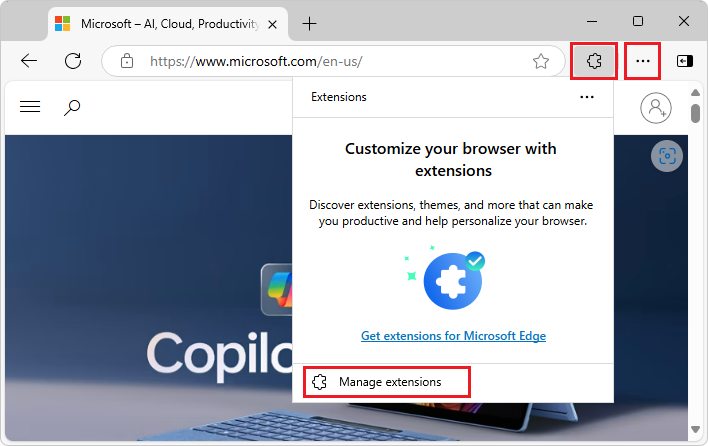
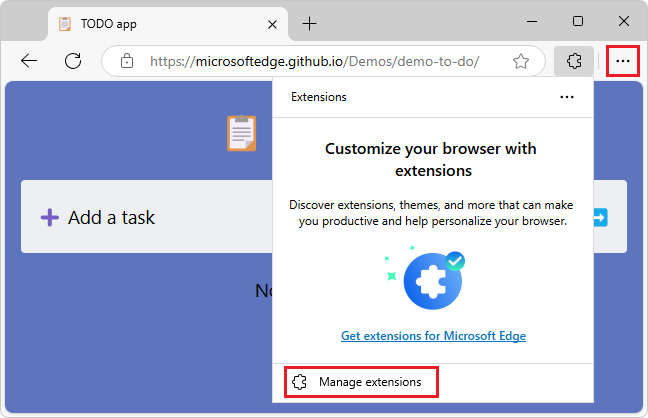
Update Sideload article

diff --git a/microsoft-edge/extensions-chromium/getting-started/extension-sideloading.md b/microsoft-edge/extensions-chromium/getting-started/extension-sideloading.md
@@ -6,7 +6,7 @@ ms.author: msedgedevrel
 ms.topic: conceptual
 ms.service: microsoft-edge
 ms.subservice: extensions
-ms.date: 10/04/2024
+ms.date: 01/15/2025
 ---
 # Sideload an extension to install and test it locally
 
@@ -14,59 +14,83 @@ To test an extension quickly and safely, sideload the extension in your own copy
 
 
 <!-- ====================================================================== -->
+## Prerequisite: Have an extension to install
+
+This article assumes that your local drive contains an extension that you want to load, such as a sample from the [MicrosoftEdge-Extensions](https://github.com/microsoft/MicrosoftEdge-Extensions) repo.
+
+If you want to obtain the samples, see [Clone the MicrosoftEdge-Extensions repo](./picture-viewer-popup-webpage.md#clone-the-microsoftedge-extensions-repo) in _Sample: Picture viewer pop-up webpage_.
+
+
+<!-- ====================================================================== -->
 ## Locally installing and running an extension
 
 To sideload an extension into Microsoft Edge, so that it's locally installed in your browser for testing:
 
-1. In Microsoft Edge, click the **Extensions** (![Extensions icon](./extension-sideloading-images/extensions-icon.png)) button, next to the Address bar, if this icon is displayed.  Or, select **Settings and more** (...) > **Extensions**.  The **Extensions** pop-up opens:
+1. Go to a webpage, such as [TODO app](https://microsoftedge.github.io/Demos/demo-to-do/), in a new window or tab.  For some samples, this step is optional and is just to match the screenshots below; some samples don't require a webpage to be open.
+
+1. In Microsoft Edge to the right of the Address bar, if this icon is displayed, click the **Extensions** (![Extensions icon](./extension-sideloading-images/extensions-icon.png)) button.  Or, select **Settings and more** (![The "Settings and more" icon](./extension-sideloading-images/settings-and-more-icon.png)) > **Extensions**.
+
+   The **Extensions** pop-up opens:
 
    ![The Extensions popup when no extensions are installed](./extension-sideloading-images/extensions-popup-no-extensions.png)
 
 1. Click **Manage extensions**.  The **Extensions** management page opens in a new tab:
 
-   ![Turning on Developer Mode](./extension-sideloading-images/part1-developermode-toggle.png)
+   ![Turning on Developer Mode](./extension-sideloading-images/developermode-toggle.png)
 
 1. Turn on the **Developer mode** toggle.
 
 1. When installing your extension for the first time, click the **Load unpacked** (![The "Load unpacked" icon](./extension-sideloading-images/load-unpacked-icon.png)) button.  The **Select the extension directory** dialog opens.
 
-1. Select the directory that contains the extension's source files, such as `manifest.json`, and then click the **Select Folder** button.
+1. Select the directory that contains the extension's source files, such as `manifest.json`.
 
-   Example path for [Sample: Picture viewer pop-up webpage](./picture-viewer-popup-webpage.md):
+   Example path for the **Picture viewer pop-up webpage** sample:
 
-   `C:\Users\myUsername\GitHub\MicrosoftEdge-Extensions\Extension samples\extension-getting-started-part1\part1\`
+   `C:\Users\localAccount\GitHub\MicrosoftEdge-Extensions\Extension samples\picture-viewer-popup-webpage`
 
-   Example path for [Sample: Picture inserter using content script](./picture-inserter-content-script.md):
+   Example path for the **Picture inserter using content script** sample:
 
-   `C:\Users\myUsername\GitHub\MicrosoftEdge-Extensions\Extension samples\extension-getting-started-part2\extension-getting-started-part2\`
+   `C:\Users\localAccount\GitHub\MicrosoftEdge-Extensions\Extension samples\picture-inserter-content-script`
+
+1. Click the **Select Folder** button.
+
+   The **Select the extension directory** dialog closes.
 
    The extension is installed in your browser, similar to extensions that are installed from the store:
 
-   ![Installed extensions page, showing a sideloaded extension](./extension-sideloading-images/part1-installed-extension.png)
+   ![Installed extensions page, showing a sideloaded extension](./extension-sideloading-images/installed-extension.png)
 
-1. To run the extension, first open a webpage, if the extension requires that a webpage is open.  For example, go to a webpage, such as [Microsoft.com](https://www.microsoft.com), in a new window or tab.
+1. If the extension requires that a webpage is open, make sure a webpage is open, such as [TODO app](https://microsoftedge.github.io/Demos/demo-to-do/).
 
-1. In the upper right of Microsoft Edge, click the **Extensions** (![Extensions icon](./extension-sideloading-images/extensions-icon.png)) button.  Or, select **Settings and more** (...) > **Extensions**.
+1. In Microsoft Edge to the right of the Address bar, click the **Extensions** (![Extensions icon](./extension-sideloading-images/extensions-icon.png)) button.  Or, select **Settings and more** (![The "Settings and more" icon](./extension-sideloading-images/settings-and-more-icon.png)) > **Extensions**.
 
    The **Extensions** pop-up opens:
 
    ![The Extensions pop-up](./extension-sideloading-images/extensions-popup.png)
 
-1. Click the extension's icon or name.  The extension opens, and the extension's icon is added next to the Address bar and Extensions (![Extensions icon](./extension-sideloading-images/extensions-icon.png)) icon:
+1. Click the extension's icon or name.  The extension opens, and the extension's icon is added next to the Address bar and **Extensions** (![Extensions icon](./extension-sideloading-images/extensions-icon.png)) button:
 
    ![An extension running](./extension-sideloading-images/extension-running.png)
 
 
 <!-- ====================================================================== -->
-## Locally updating an extension
+## Locally updating an extension (Reload)
 
 To update an extension that's been installed locally (sideloaded) in your browser:
 
-1. Make any required changes to the extension.
+1. Make any required changes to the extension, and save changes.
 
-1. Go to `edge://extensions`.
+1. In Microsoft Edge, if the **Extensions** management tab is open, click it.
 
-1. Click the **Reload** button for the sideloaded extension.  The updated extension is reloaded.
+   Or, to the right of the Address bar, if this icon is displayed, click the **Extensions** (![Extensions icon](./extension-sideloading-images/extensions-icon.png)) button.  The **Extensions** pop-up opens.  Click **Manage extensions**.
+
+   Or, select **Settings and more** (![The "Settings and more" icon](./extension-sideloading-images/settings-and-more-icon.png)) > **Extensions** > **Manage extensions**.
+
+   The **Extensions** management tab is displayed.
+
+1. Click the **Reload** link in the extension's card.
+
+1. Depending on the sample, you might need to refresh the webpage where the sample was run.
 
 
 <!-- ====================================================================== -->
@@ -74,9 +98,37 @@ To update an extension that's been installed locally (sideloaded) in your browse
 
 To remove an extension that's been installed locally (sideloaded) in your browser:
 
-1. Go to `edge://extensions`.
+1. In Microsoft Edge, if the **Extensions** management tab is open, click it.
 
-1. On the extension, click **Remove**.
+   Or, to the right of the Address bar, if this icon is displayed, click the **Extensions** (![Extensions icon](./extension-sideloading-images/extensions-icon.png)) button.  The **Extensions** pop-up opens.  Click **Manage extensions**.
+
+   Or, select **Settings and more** (![The "Settings and more" icon](./extension-sideloading-images/settings-and-more-icon.png)) > **Extensions** > **Manage extensions**.
+
+   The **Extensions** management tab is displayed.
+
+1. Click the **Remove** link in the extension's card.
+
+
+<!-- ====================================================================== -->
+## Error reporting in the Extensions management page
+
+If running an extension causes an error, in some cases, an **Error** link is added in the extension's card in the **Extensions** management page between the **Remove** and **Reload** links.
+
+1. In Microsoft Edge, if the **Extensions** management tab is open, click it.
+
+   Or, to the right of the Address bar, if this icon is displayed, click the **Extensions** (![Extensions icon](./extension-sideloading-images/extensions-icon.png)) button.  The **Extensions** pop-up opens.  Click **Manage extensions**.
+
+   Or, select **Settings and more** (![The "Settings and more" icon](./extension-sideloading-images/settings-and-more-icon.png)) > **Extensions** > **Manage extensions**.
+
+   The **Extensions** management tab is displayed.
+
+1. Click the **Error** link in the extension's card.
+
+1. Fix the error in the extension's code.
+
+1. In the **Extensions** management page, click the **Reload** link.
+
+1. To make the **Error** link in the extension's card go away, in the **Extensions** management page, click the **Clear errors** button.
 
 
 <!-- ====================================================================== -->

diff --git a/microsoft-edge/extensions-chromium/getting-started/picture-viewer-popup-webpage.md b/microsoft-edge/extensions-chromium/getting-started/picture-viewer-popup-webpage.md
@@ -80,7 +80,7 @@ See also:
 
 Instead of installing the sample from the Store, you'll install the sample locally, so that you can possibly modify it and quickly test the changes.  Installing locally is sometimes called _sideloading_ an extension.
 
-1. In Microsoft Edge, click the **Extensions** (![Extensions icon](./picture-viewer-popup-webpage-images/extensions-icon.png)) button, next to the Address bar, if this icon is displayed.  Or, select **Settings and more** (...) > **Extensions**.  The **Extensions** pop-up opens:
+1. In Microsoft Edge, click the **Extensions** (![Extensions icon](./picture-viewer-popup-webpage-images/extensions-icon.png)) button, next to the Address bar, if this icon is displayed.  Or, select **Settings and more** (![The "Settings and more" icon](./picture-viewer-popup-webpage-images/settings-and-more-icon.png)) > **Extensions**.  The **Extensions** pop-up opens:
 
    ![The Extensions pop-up when no extensions are installed](./picture-viewer-popup-webpage-images/extensions-popup-no-extensions.png)
 
@@ -92,11 +92,15 @@ Instead of installing the sample from the Store, you'll install the sample local
 
 1. When installing your extension for the first time, click the **Load unpacked** (![The "Load unpacked" icon](./picture-viewer-popup-webpage-images/load-unpacked-icon.png)) button.  The **Select the extension directory** dialog opens.
 
-1. Select the directory that contains the extension's source files, such as `manifest.json`, and then click the **Select Folder** button.
+1. Select the directory that contains the extension's source files, such as `manifest.json`.
 
    Example path:
 
    `C:\Users\localAccount\GitHub\MicrosoftEdge-Extensions\Extension samples\picture-viewer-popup-webpage`
+
+1. Click the **Select Folder** button.
+
+   The **Select the extension directory** dialog closes.
 
    The extension is installed in the browser, similar to an extension that's installed from the store:
 
@@ -108,7 +112,7 @@ Instead of installing the sample from the Store, you'll install the sample local
 
 1. Go to a webpage, such as [TODO app](https://microsoftedge.github.io/Demos/demo-to-do/)<!-- https://github.com/MicrosoftEdge/Demos/tree/main/demo-to-do -->, in a new window or tab.  For this sample, this step is optional and is just to match the screenshots; this sample doesn't require a webpage to be open.
 
-1. In the upper right of Microsoft Edge, click the **Extensions** (![Extensions icon](./picture-viewer-popup-webpage-images/extensions-icon.png)) button.  Or, select **Settings and more** (...) > **Extensions**.
+1. In Microsoft Edge to the right of the Address bar, if this icon is displayed, click the **Extensions** (![Extensions icon](./picture-viewer-popup-webpage-images/extensions-icon.png)) button.  Or, select **Settings and more** (![The "Settings and more" icon](./picture-viewer-popup-webpage-images/settings-and-more-icon.png)) > **Extensions**.
 
    The **Extensions** pop-up opens:
 
@@ -233,7 +237,6 @@ The pop-up webpage (`popup.html`) is registered as the `"default_popup"` in `man
 
 ```json
 {
-    ...
     "action": {
         "default_popup": "popup/popup.html"
     }

diff --git a/microsoft-edge/extensions-chromium/getting-started/picture-inserter-content-script.md b/microsoft-edge/extensions-chromium/getting-started/picture-inserter-content-script.md
@@ -105,7 +105,7 @@ See also:
 
 Instead of installing the sample from the Store, you'll install the sample locally, so that you can possibly modify it and quickly test the changes.  Installing locally is sometimes called _sideloading_ an extension.
 
-1. In Microsoft Edge, click the **Extensions** (![Extensions icon](./picture-inserter-content-script-images/extensions-icon.png)) button, next to the Address bar, if this icon is displayed.  Or, select **Settings and more** (...) > ![Extensions icon](./picture-inserter-content-script-images/extensions-icon.png) **Extensions**.  The **Extensions** pop-up opens:
+1. In Microsoft Edge, click the **Extensions** (![Extensions icon](./picture-inserter-content-script-images/extensions-icon.png)) button, next to the Address bar, if this icon is displayed.  Or, select **Settings and more** (![The "Settings and more" icon](./picture-inserter-content-script-images/settings-and-more-icon.png)) > ![Extensions icon](./picture-inserter-content-script-images/extensions-icon.png) **Extensions**.  The **Extensions** pop-up opens:
 
    ![The Extensions pop-up when no extensions are installed](./picture-inserter-content-script-images/extensions-popup-no-extensions.png)
 
@@ -137,7 +137,7 @@ Instead of installing the sample from the Store, you'll install the sample local
 
 1. Go to a webpage, such as [TODO app](https://microsoftedge.github.io/Demos/demo-to-do/)<!-- https://github.com/MicrosoftEdge/Demos/tree/main/demo-to-do -->, in a new window or tab.  The tab must not be empty, and must not be the Manage Extensions page, because this sample inserts content into the current webpage.
 
-1. In Microsoft Edge to the right of the Address bar, if this icon is displayed, click the **Extensions** (![Extensions icon](./picture-inserter-content-script-images/extensions-icon.png)) button.  Or, select **Settings and more** (...) > **Extensions**.
+1. In Microsoft Edge to the right of the Address bar, if this icon is displayed, click the **Extensions** (![Extensions icon](./picture-inserter-content-script-images/extensions-icon.png)) button.  Or, select **Settings and more** (![The "Settings and more" icon](./picture-inserter-content-script-images/settings-and-more-icon.png)) > **Extensions**.
 
    The **Extensions** pop-up opens:
 
